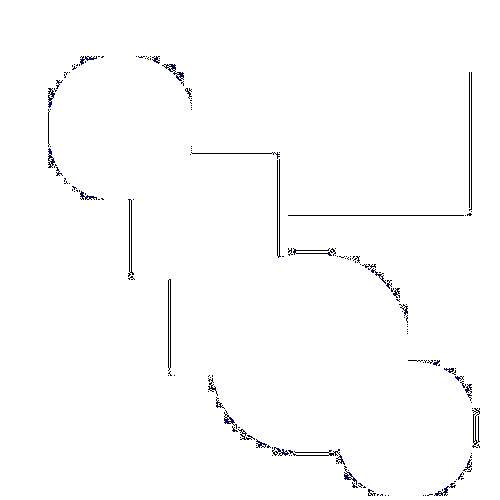
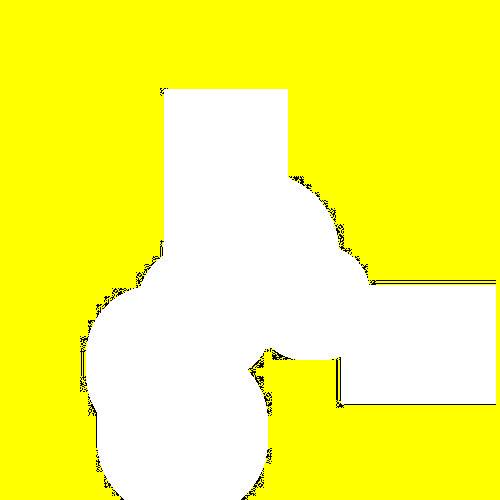
muticolor graph image

diff --git a/dijkstraGenerator.py b/dijkstraGenerator.py
@@ -97,10 +97,15 @@ class MapNavigator:
     def save_graph_image(self):
         graph_img = self.img.convert("RGB")
         draw = ImageDraw.Draw(graph_img)
+        
+        # Draw nodes in blue and edges in white with thinner lines
+        '''
         for (x, y) in self.graph.nodes:
             draw.point((x, y), fill="blue")
+        '''
         for (x1, y1), (x2, y2) in self.graph.edges:
-            draw.line((x1, y1, x2, y2), fill="white")
+            draw.line((x1, y1, x2, y2), fill="yellow", width=1)
+        
         graph_img.save("graph.jpg")
         print("Graph saved as 'graph.jpg'")
 
